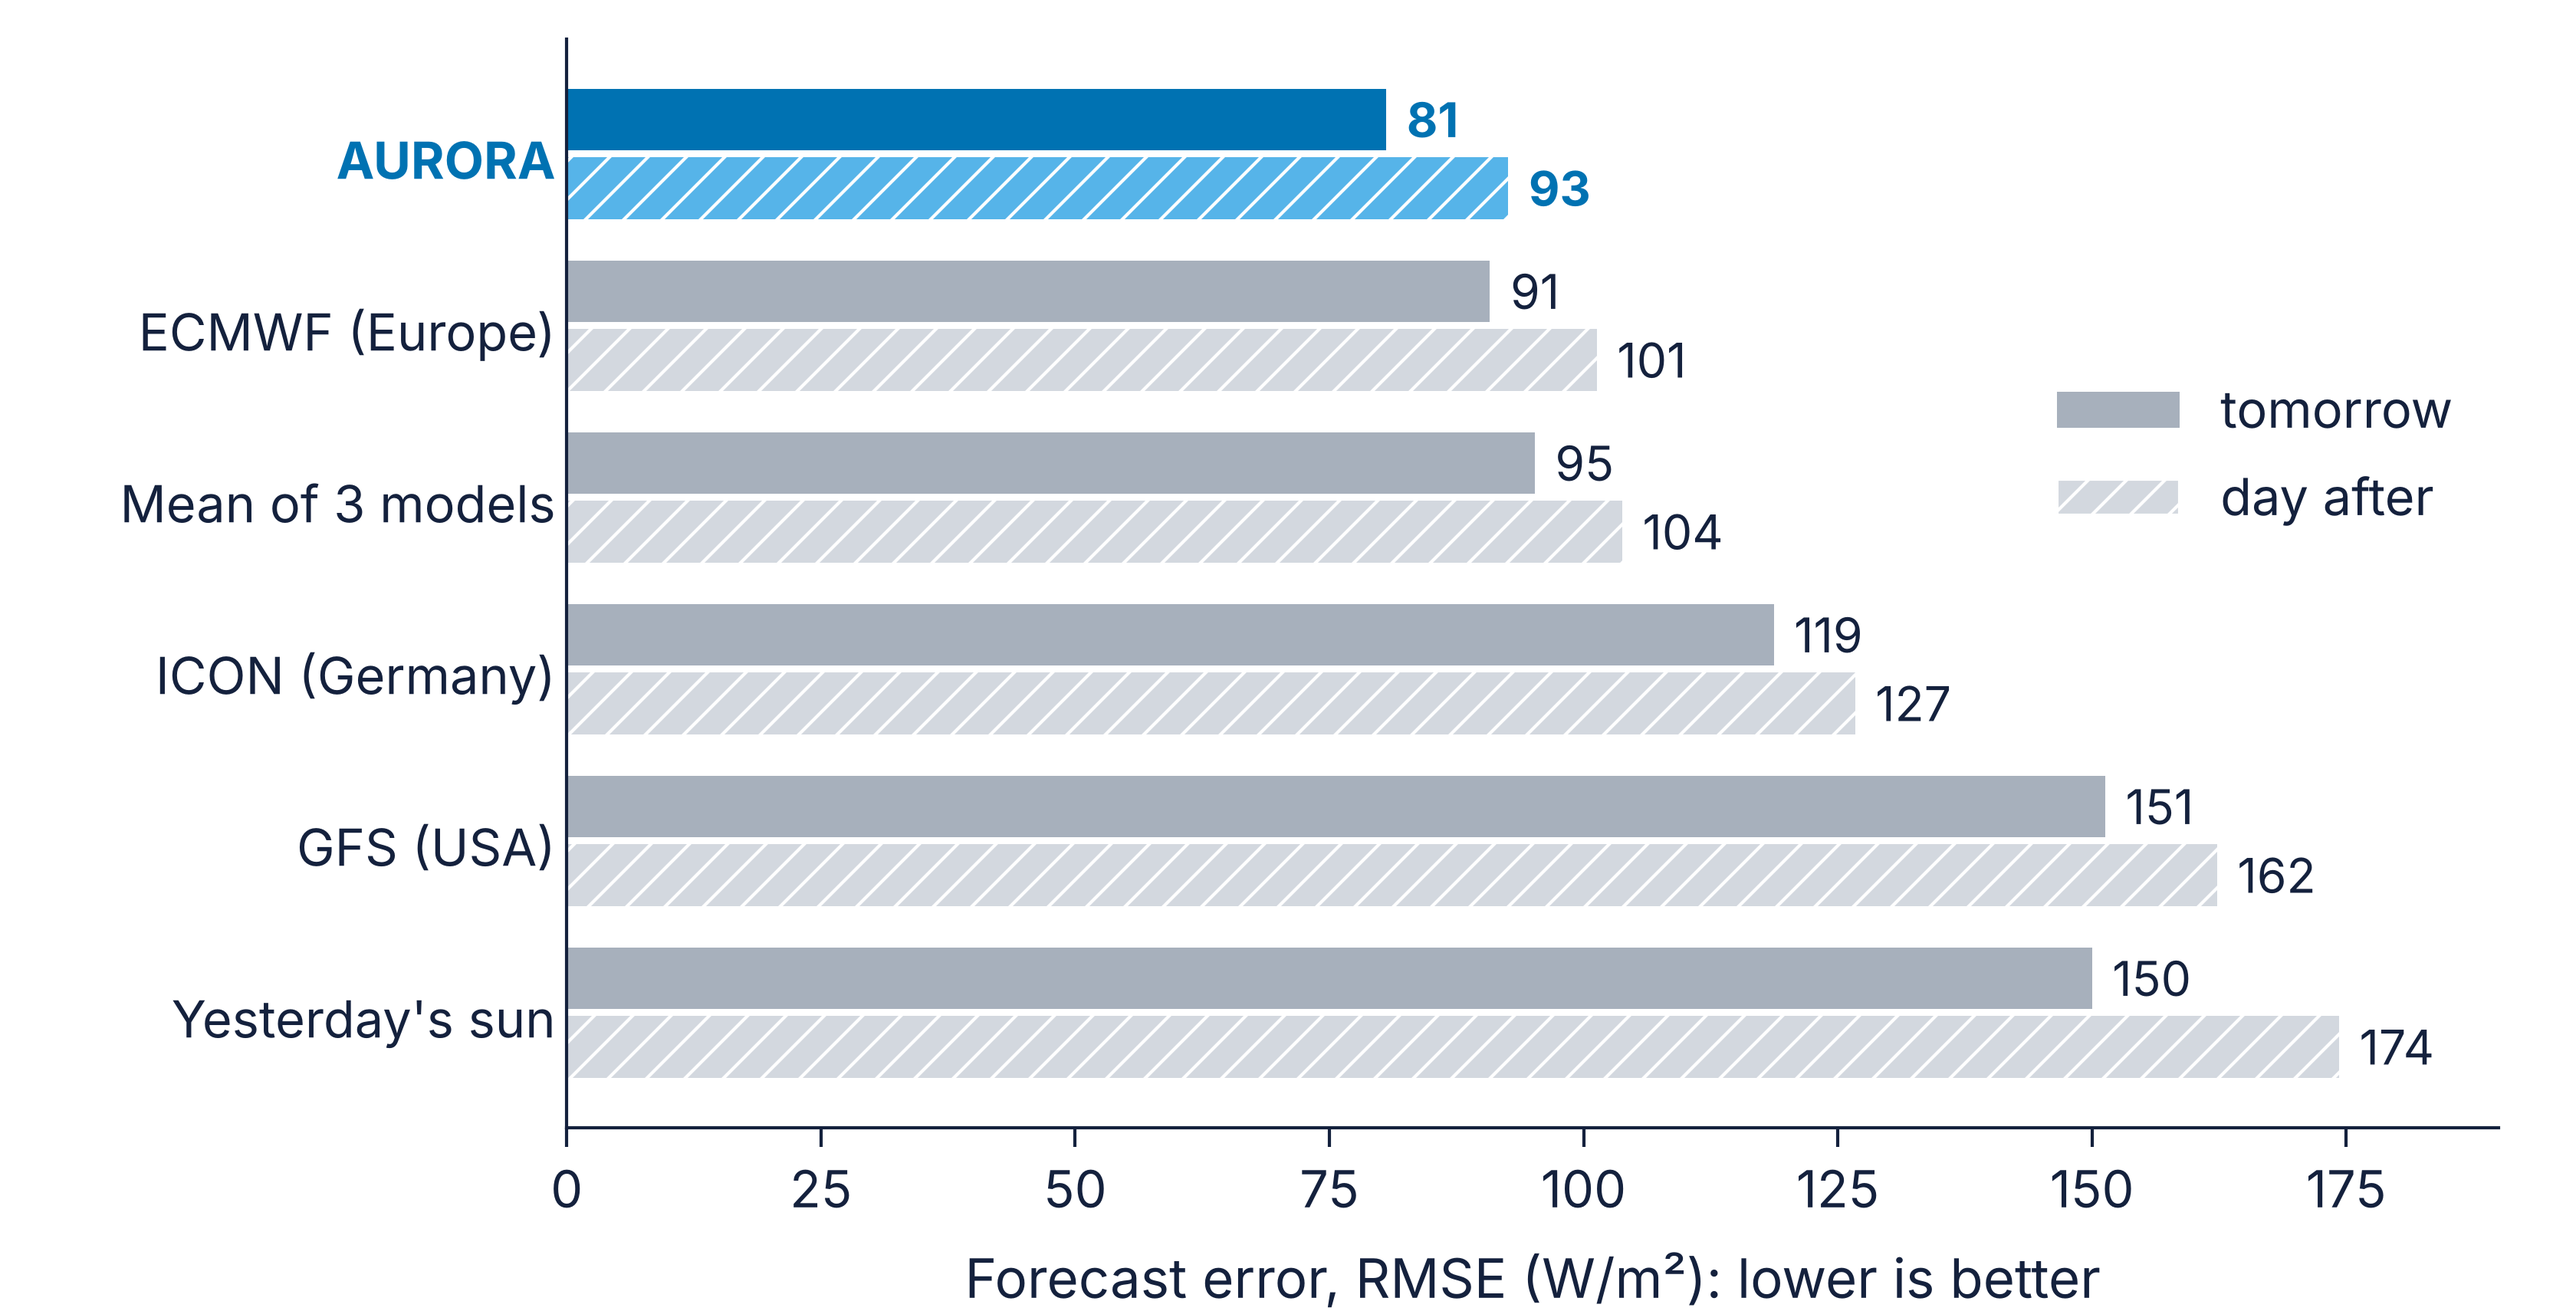
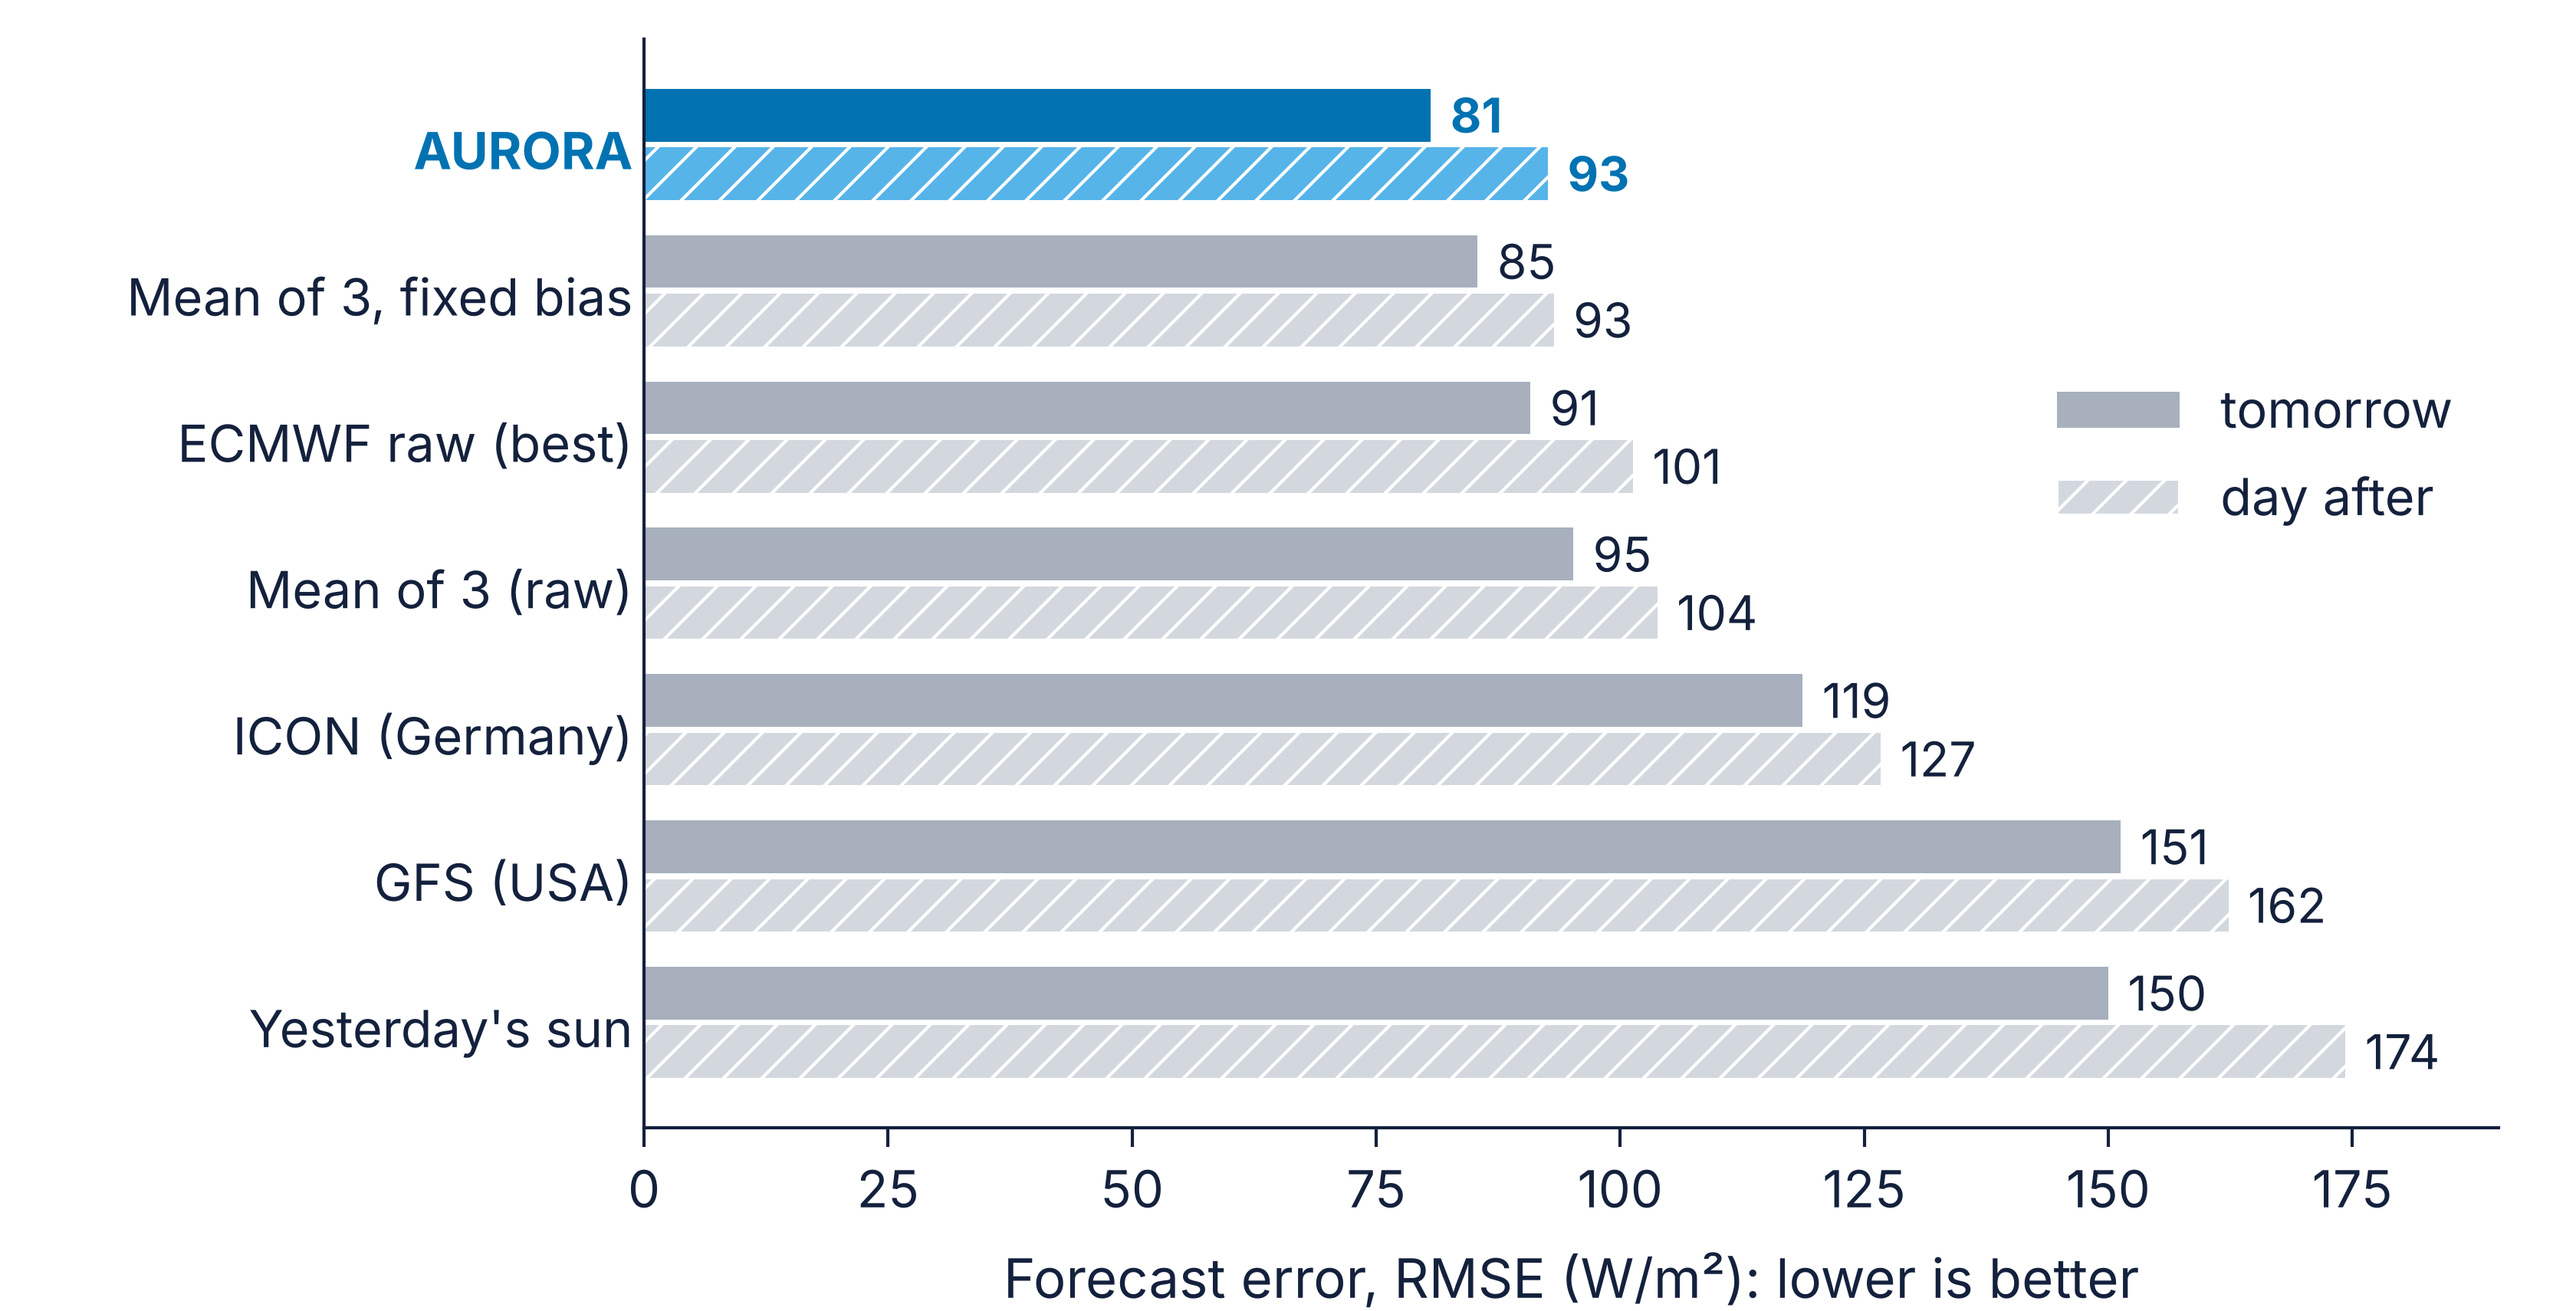
Forecast: add bias-corrected NWP baseline (MOS) check; slide figure shows it

diff --git a/aurora/forecast/mos_check.py b/aurora/forecast/mos_check.py
@@ -1,0 +1,63 @@
+"""Fairer baseline for the forecast: raw NWP after a simple bias correction (MOS).
+
+    python -m aurora.forecast.mos_check
+
+Monthly expanding-window linear fits (training truth ends 3 days before the test month), in GHI and in
+clear-sky index, for ECMWF and the 3-model mean. Same sample as docs/validation_forecast.md (lead day 1 and 2,
+daylight, full regime, Nov 2024 to Oct 2026). Daily block bootstrap for the skill of AURORA vs the best one.
+"""
+import numpy as np, pandas as pd
+from aurora.forecast.backtest import EVAL_START
+b = pd.read_parquet('data/itbayat/forecast/backtest_solar.parquet')
+b = b[b.calibrated]
+e = pd.read_parquet('data/itbayat/raw_small/previous_runs_ecmwf.parquet')
+rows=[]
+for ld in (1,2):
+    d = b[b.lead_day==ld].copy()
+    d['ecmwf'] = e[f'ghi_wm2_d{ld}'].reindex(d.index).to_numpy()
+    d = d[(d.ghi_clear>=50) & d.ghi_ref.notna() & d.ecmwf.notna()]
+    allr = d.copy()
+    ev = d[(d.index>=EVAL_START) & (d.regime=='full') & d.ghi_nwp_mean.notna() & d.ghi_persist.notna()]
+    rm = lambda x: float(np.sqrt(np.mean((x-ev.ghi_ref)**2)))
+    out = {'aurora':rm(ev.ghi_p50),'ecmwf_raw':rm(ev.ecmwf),'mean_raw':rm(ev.ghi_nwp_mean),'n':len(ev)}
+    # MOS: monthly expanding-window fits, training data strictly before the test month minus 3 days
+    for src in ('ecmwf','ghi_nwp_mean'):
+        for kind in ('lin','kidx'):
+            pred = pd.Series(np.nan, index=ev.index)
+            for m, g in ev.groupby(ev.index.tz_convert(None).to_period('M')):
+                t0 = g.index.min() - pd.Timedelta(days=3)
+                tr = allr[(allr.index < t0) & allr[src].notna()]
+                if kind=='lin':
+                    A = np.c_[np.ones(len(tr)), tr[src]]; c = np.linalg.lstsq(A, tr.ghi_ref, rcond=None)[0]
+                    p = c[0] + c[1]*g[src]
+                else:  # clear-sky index, linear, then back to GHI
+                    kx, ky = (tr[src]/tr.ghi_clear).clip(0,1.5), (tr.ghi_ref/tr.ghi_clear).clip(0,1.5)
+                    A = np.c_[np.ones(len(tr)), kx]; c = np.linalg.lstsq(A, ky, rcond=None)[0]
+                    p = (c[0] + c[1]*(g[src]/g.ghi_clear).clip(0,1.5))*g.ghi_clear
+                pred.loc[g.index] = p.clip(lower=0).to_numpy()
+            out[f'mos_{src}_{kind}'] = rm(pred)
+    # typhoon subset
+    rows.append((ld,out))
+for ld,o in rows: print(ld, {k:(round(v,1) if isinstance(v,float) else v) for k,v in o.items()})
+
+# block bootstrap on days for skill of AURORA vs best MOS (NWP mean, clear-sky index)
+rng=np.random.default_rng(2026)
+for ld in (1,2):
+    d = b[b.lead_day==ld].copy(); d['ecmwf']=e[f'ghi_wm2_d{ld}'].reindex(d.index).to_numpy()
+    d = d[(d.ghi_clear>=50)&d.ghi_ref.notna()&d.ecmwf.notna()]
+    ev = d[(d.index>=EVAL_START)&(d.regime=='full')&d.ghi_nwp_mean.notna()&d.ghi_persist.notna()].copy()
+    pred=pd.Series(np.nan,index=ev.index)
+    for m,g in ev.groupby(ev.index.tz_convert(None).to_period('M')):
+        tr=d[(d.index<g.index.min()-pd.Timedelta(days=3))&d.ghi_nwp_mean.notna()]
+        kx,ky=(tr.ghi_nwp_mean/tr.ghi_clear).clip(0,1.5),(tr.ghi_ref/tr.ghi_clear).clip(0,1.5)
+        c=np.linalg.lstsq(np.c_[np.ones(len(tr)),kx],ky,rcond=None)[0]
+        pred.loc[g.index]=((c[0]+c[1]*(g.ghi_nwp_mean/g.ghi_clear).clip(0,1.5))*g.ghi_clear).clip(lower=0).to_numpy()
+    ev['mos']=pred; ev['day']=ev.index.floor('D')
+    se=ev.assign(a=(ev.ghi_p50-ev.ghi_ref)**2,m=(ev.mos-ev.ghi_ref)**2).groupby('day')[['a','m']].agg(['sum','count'])
+    days=se.index.to_numpy(); sk=[]
+    for _ in range(500):
+        s=se.loc[rng.choice(days,len(days))]
+        a=np.sqrt(s[('a','sum')].sum()/s[('a','count')].sum()); m=np.sqrt(s[('m','sum')].sum()/s[('m','count')].sum())
+        sk.append(1-a/m)
+    a=np.sqrt(se[('a','sum')].sum()/se[('a','count')].sum()); m=np.sqrt(se[('m','sum')].sum()/se[('m','count')].sum())
+    print(ld,'skill vs MOS',round(100*(1-a/m),1),'5-95',np.round(100*np.percentile(sk,[5,95]),1))

diff --git a/aurora/plotting/slides.py b/aurora/plotting/slides.py
@@ -479,13 +479,14 @@ def replay(size=(1000, 600), job="rec_mawar2023_pv300_bat1500_d14"):
 
 
 RMSE = {"Yesterday's sun": (150.0, 174.3), "GFS (USA)": (151.3, 162.3), "ICON (Germany)": (118.7, 126.7),
-        "Mean of 3 models": (95.2, 103.8), "ECMWF (Europe)": (90.8, 101.3), "AURORA": (80.6, 92.6)}
+        "Mean of 3 (raw)": (95.2, 103.8), "ECMWF raw (best)": (90.8, 101.3),
+        "Mean of 3, fixed bias": (85.4, 93.2), "AURORA": (80.6, 92.6)}
 
 
 def forecast_rmse(size=SIDE):
     """docs/validation_forecast.md: RMSE, daylight hours, satellite reference, Nov 2024 to Oct 2026."""
     fig, ax = _fig(size)
-    fig.subplots_adjust(0.22, 0.14, 0.97, 0.97)
+    fig.subplots_adjust(0.25, 0.14, 0.97, 0.97)
     labs = list(RMSE)
     y = np.arange(len(labs))
     w = 0.4

diff --git a/docs/validation_forecast.md b/docs/validation_forecast.md
@@ -176,3 +176,16 @@ The synthetic critical load is a fixed daily schedule (site.yaml `critical_profi
 - Anderson, K. S., Hansen, C. W., Holmgren, W. F., et al. (2023). pvlib python: 2023 project update. J. Open Source Softw. 8(92), 5994. doi:10.21105/joss.05994
 - Knapp, K. R., et al. (2010). The International Best Track Archive for Climate Stewardship (IBTrACS). Bull. Am. Meteorol. Soc. 91, 363-376. doi:10.1175/2009BAMS2755.1
 - Tsai, C.-T., et al. (2020). Energies 13(1), 8 (see data/itbayat/SOURCES.md).
+
+## Fairer baseline: raw NWP after a simple bias correction (added 18 Nov 2026)
+
+`python -m aurora.forecast.mos_check`. A linear correction (MOS) fitted month by month on earlier data only, same sample as above. The strongest version is the 3-model NWP mean corrected in clear-sky index.
+
+| Lead day | AURORA P50 | ECMWF raw | ECMWF corrected | NWP mean corrected (best) | AURORA skill vs best (5-95 %) |
+|---|---|---|---|---|---|
+| 1 | 80.4 | 90.6 | 89.3 | 85.4 | 5.9 % (3.6 to 8.4) |
+| 2 | 92.4 | 101.1 | 99.0 | 93.2 | 0.8 % (-2.1 to 4.1) |
+
+RMSE in W/m². Verdict: most of the gain over the raw models at lead day 2 is bias correction; at lead day 1 AURORA keeps a clear 6 % edge. The main added value beyond a simple correction is the calibrated range (P10-P90 coverage 81.7 %).
+
+Value to the island: with AURORA's forecast the planner cut homes for 138 h on average in the three typhoons, against 146 h with the raw NWP forecast and 134 h with a perfect forecast (`results/phase4b/value_of_forecast.csv`); the clinic was dark 0 h in all three cases.
